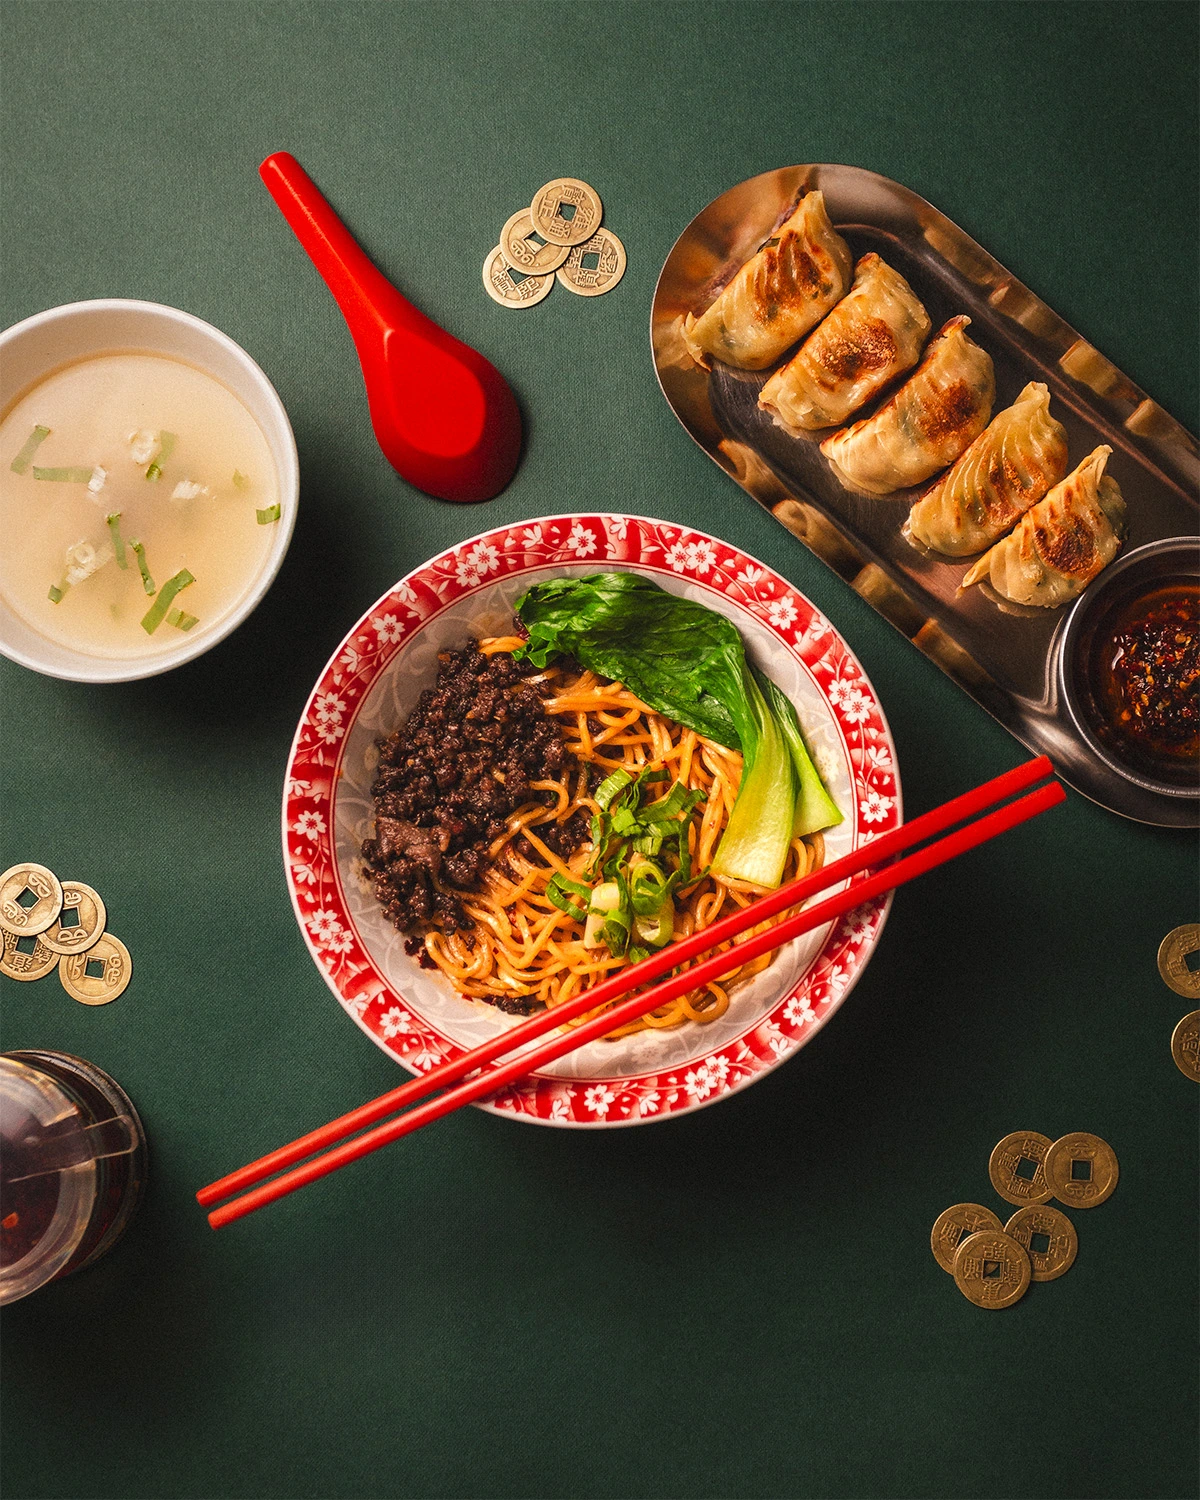
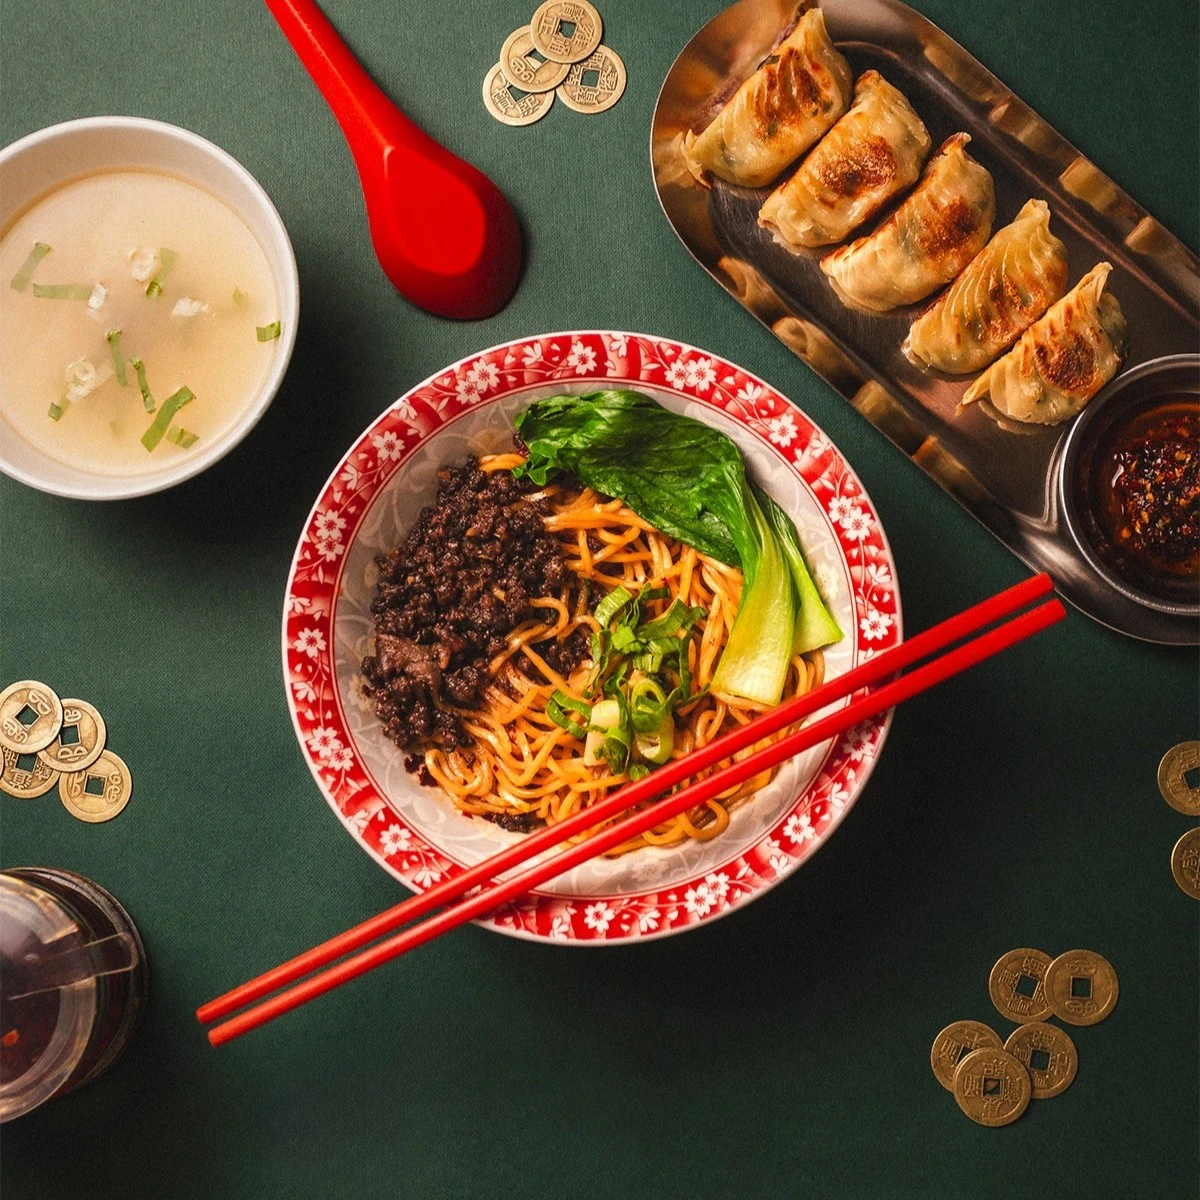
v5.2

diff --git a/portfolio/tsukamie.html b/portfolio/tsukamie.html
@@ -481,7 +481,6 @@
             <a href="#outputs" class="cs-nav-item"><span class="cs-nav-label">Outputs</span><div class="cs-nav-dot"></div></a>
             <a href="#impact" class="cs-nav-item"><span class="cs-nav-label">The Impact</span><div class="cs-nav-dot"></div></a>
             <a href="#process" class="cs-nav-item"><span class="cs-nav-label">Process</span><div class="cs-nav-dot"></div></a>
-            <a href="#testimonial" class="cs-nav-item"><span class="cs-nav-label">Testimonial</span><div class="cs-nav-dot"></div></a>
             <a href="#key-takeaways" class="cs-nav-item"><span class="cs-nav-label">Takeaways</span><div class="cs-nav-dot"></div></a>
             <a href="#credits" class="cs-nav-item"><span class="cs-nav-label">Credits</span><div class="cs-nav-dot"></div></a>
         </nav>
@@ -745,8 +744,8 @@
                             <div class="solution-video-item is-fullwidth">
                                 <div class="solution-video-content">
                                     <span class="sol-number">[02]</span>
-                                    <h3 class="sol-title">Content Pillar System</h3>
-                                    <p class="sol-desc">Defined clear content categories to maintain consistency in messaging, balancing brand communication, engagement content, and informational posts.</p>
+                                    <h3 class="sol-title">Content System Development</h3>
+                                    <p class="sol-desc">Built a structured workflow through audience research, moodboarding, production planning, and performance evaluation to create more consistent and effective content.</p>
                                 </div>
                                 <div class="solution-video-player" style="box-shadow: none; border-radius: 0; background: transparent;">
                                     <div class="bits-and-pieces-wrapper">
@@ -901,7 +900,7 @@
                                                         <button class="bento-btn bento-fullscreen-btn">
                                                             <svg width="12" height="12" viewBox="0 0 24 24" fill="none" stroke="currentColor" stroke-width="2" stroke-linecap="round" stroke-linejoin="round"><path d="M8 3H5a2 2 0 0 0-2 2v3m18 0V5a2 2 0 0 0-2-2h-3m0 18h3a2 2 0 0 0 2-2v-3M3 16v3a2 2 0 0 0 2 2h3"></path></svg> Fullscreen
                                                         </button>
-                                                        <a href="#" target="_blank" class="bento-btn">View on IG</a>
+                                                        <a href="https://www.instagram.com/p/DOKwiB0E4Mb/?utm_source=ig_web_copy_link&igsh=MzRlODBiNWFlZA==" target="_blank" class="bento-btn">View on IG</a>
                                                     </div>
                                                 </div>
                                             </div>
@@ -923,7 +922,7 @@
                                                         <button class="bento-btn bento-fullscreen-btn">
                                                             <svg width="12" height="12" viewBox="0 0 24 24" fill="none" stroke="currentColor" stroke-width="2" stroke-linecap="round" stroke-linejoin="round"><path d="M8 3H5a2 2 0 0 0-2 2v3m18 0V5a2 2 0 0 0-2-2h-3m0 18h3a2 2 0 0 0 2-2v-3M3 16v3a2 2 0 0 0 2 2h3"></path></svg> Fullscreen
                                                         </button>
-                                                        <a href="#" target="_blank" class="bento-btn">View on IG</a>
+                                                        <a href="https://www.instagram.com/p/DOdS6Kkk1Vt/?utm_source=ig_web_copy_link&igsh=MzRlODBiNWFlZA==" target="_blank" class="bento-btn">View on IG</a>
                                                     </div>
                                                 </div>
                                             </div>
@@ -945,7 +944,7 @@
                                                         <button class="bento-btn bento-fullscreen-btn">
                                                             <svg width="12" height="12" viewBox="0 0 24 24" fill="none" stroke="currentColor" stroke-width="2" stroke-linecap="round" stroke-linejoin="round"><path d="M8 3H5a2 2 0 0 0-2 2v3m18 0V5a2 2 0 0 0-2-2h-3m0 18h3a2 2 0 0 0 2-2v-3M3 16v3a2 2 0 0 0 2 2h3"></path></svg> Fullscreen
                                                         </button>
-                                                        <a href="#" target="_blank" class="bento-btn">View on IG</a>
+                                                        <a href="https://www.instagram.com/p/DOScNpWE3HB/?utm_source=ig_web_copy_link&igsh=MzRlODBiNWFlZA==" target="_blank" class="bento-btn">View on IG</a>
                                                     </div>
                                                 </div>
                                             </div>
@@ -966,7 +965,7 @@
                                                         <button class="bento-btn bento-fullscreen-btn">
                                                             <svg width="12" height="12" viewBox="0 0 24 24" fill="none" stroke="currentColor" stroke-width="2" stroke-linecap="round" stroke-linejoin="round"><path d="M8 3H5a2 2 0 0 0-2 2v3m18 0V5a2 2 0 0 0-2-2h-3m0 18h3a2 2 0 0 0 2-2v-3M3 16v3a2 2 0 0 0 2 2h3"></path></svg> Fullscreen
                                                         </button>
-                                                        <a href="#" target="_blank" class="bento-btn">View on IG</a>
+                                                        <a href="https://www.instagram.com/p/DMep4KmPpOj/?utm_source=ig_web_copy_link&igsh=MzRlODBiNWFlZA==" target="_blank" class="bento-btn">View on IG</a>
                                                     </div>
                                                 </div>
                                             </div>
@@ -988,7 +987,7 @@
                                                         <button class="bento-btn bento-fullscreen-btn">
                                                             <svg width="12" height="12" viewBox="0 0 24 24" fill="none" stroke="currentColor" stroke-width="2" stroke-linecap="round" stroke-linejoin="round"><path d="M8 3H5a2 2 0 0 0-2 2v3m18 0V5a2 2 0 0 0-2-2h-3m0 18h3a2 2 0 0 0 2-2v-3M3 16v3a2 2 0 0 0 2 2h3"></path></svg> Fullscreen
                                                         </button>
-                                                        <a href="#" target="_blank" class="bento-btn">View on IG</a>
+                                                        <a href="https://www.instagram.com/p/DPSzvgkj6c3/?utm_source=ig_web_copy_link&igsh=MzRlODBiNWFlZA==" target="_blank" class="bento-btn">View on IG</a>
                                                     </div>
                                                 </div>
                                             </div>
@@ -1008,7 +1007,7 @@
                                                         <button class="bento-btn bento-play-btn">
                                                             <svg width="12" height="12" viewBox="0 0 24 24" fill="currentColor"><path d="M8 5v14l11-7z"/></svg> Play
                                                         </button>
-                                                        <a href="#" target="_blank" class="bento-btn">View on IG</a>
+                                                        <a href="https://www.instagram.com/reel/DNSnvRev8xh/?utm_source=ig_web_copy_link&igsh=MzRlODBiNWFlZA==" target="_blank" class="bento-btn">View on IG</a>
                                                         <button class="bento-btn bento-stats-toggle">
                                                             Stats
                                                             <svg width="12" height="12" viewBox="0 0 24 24" fill="none" stroke="currentColor" stroke-width="2" stroke-linecap="round" stroke-linejoin="round"><path d="M6 9l6 6 6-6"/></svg>
@@ -1032,7 +1031,7 @@
                                                         <button class="bento-btn bento-play-btn">
                                                             <svg width="12" height="12" viewBox="0 0 24 24" fill="currentColor"><path d="M8 5v14l11-7z"/></svg> Play
                                                         </button>
-                                                        <a href="#" target="_blank" class="bento-btn">View on IG</a>
+                                                        <a href="https://www.instagram.com/reel/DNABJDazVYp/?utm_source=ig_web_copy_link&igsh=MzRlODBiNWFlZA==" target="_blank" class="bento-btn">View on IG</a>
                                                         <button class="bento-btn bento-stats-toggle">
                                                             Stats
                                                             <svg width="12" height="12" viewBox="0 0 24 24" fill="none" stroke="currentColor" stroke-width="2" stroke-linecap="round" stroke-linejoin="round"><path d="M6 9l6 6 6-6"/></svg>
@@ -1056,7 +1055,7 @@
                                                         <button class="bento-btn bento-play-btn">
                                                             <svg width="12" height="12" viewBox="0 0 24 24" fill="currentColor"><path d="M8 5v14l11-7z"/></svg> Play
                                                         </button>
-                                                        <a href="#" target="_blank" class="bento-btn">View on IG</a>
+                                                        <a href="https://www.instagram.com/reel/DMZtV9evz3b/?utm_source=ig_web_copy_link&igsh=MzRlODBiNWFlZA==" target="_blank" class="bento-btn">View on IG</a>
                                                         <button class="bento-btn bento-stats-toggle">
                                                             Stats
                                                             <svg width="12" height="12" viewBox="0 0 24 24" fill="none" stroke="currentColor" stroke-width="2" stroke-linecap="round" stroke-linejoin="round"><path d="M6 9l6 6 6-6"/></svg>
@@ -1080,7 +1079,7 @@
                                                         <button class="bento-btn bento-play-btn">
                                                             <svg width="12" height="12" viewBox="0 0 24 24" fill="currentColor"><path d="M8 5v14l11-7z"/></svg> Play
                                                         </button>
-                                                        <a href="#" target="_blank" class="bento-btn">View on IG</a>
+                                                        <a href="https://www.instagram.com/reel/DMuvjpmvn0Z/?utm_source=ig_web_copy_link&igsh=MzRlODBiNWFlZA==" target="_blank" class="bento-btn">View on IG</a>
                                                         <button class="bento-btn bento-stats-toggle">
                                                             Stats
                                                             <svg width="12" height="12" viewBox="0 0 24 24" fill="none" stroke="currentColor" stroke-width="2" stroke-linecap="round" stroke-linejoin="round"><path d="M6 9l6 6 6-6"/></svg>
@@ -1104,7 +1103,7 @@
                                                         <button class="bento-btn bento-play-btn">
                                                             <svg width="12" height="12" viewBox="0 0 24 24" fill="currentColor"><path d="M8 5v14l11-7z"/></svg> Play
                                                         </button>
-                                                        <a href="#" target="_blank" class="bento-btn">View on IG</a>
+                                                        <a href="https://www.instagram.com/reel/DNVQwa_TOav/?utm_source=ig_web_copy_link&igsh=MzRlODBiNWFlZA==" target="_blank" class="bento-btn">View on IG</a>
                                                         <button class="bento-btn bento-stats-toggle">
                                                             Stats
                                                             <svg width="12" height="12" viewBox="0 0 24 24" fill="none" stroke="currentColor" stroke-width="2" stroke-linecap="round" stroke-linejoin="round"><path d="M6 9l6 6 6-6"/></svg>
@@ -1186,86 +1185,34 @@
                     <div class="global-padding">
                         <div class="section-headlne-content-wrapper section-headline-margin" style="display: flex; flex-direction: column; align-items: flex-start; text-align: left;">
                             <div class="section-headline">
-                                <h2 class="section-headline-text text-3xl text-weight-semibold text-color-black-900 text-reveal">Process & System</h2>
+                                <h2 class="section-headline-text text-3xl text-weight-semibold text-color-black-900 text-reveal">Behind The Scenes</h2>
                             </div>
-                            <p class="about-paragraph" style="margin-top: 16px; max-width: 65ch;">The project involved content research, audience observation, visual moodboarding, production planning, editing workflows, and performance evaluation to continuously improve content effectiveness over time.</p>
                         </div>
                     </div>
                 </div>
                 <div class="bits-and-pieces-wrapper">
                     <div class="slider-wrapper">
-                        <div class="swiper bits-slider">
+                        <div class="swiper bits-slider" data-loop="false">
                             <div class="swiper-wrapper">
                                 <div class="swiper-slide">
                                     <div class="photo-card">
-                                        <img src="https://images.unsplash.com/photo-1551288049-bebda4e38f71?q=80&w=600&auto=format&fit=crop" alt="G-Sheets Customer Analysis" class="photo-img" loading="lazy" decoding="async" fetchpriority="low">
+                                        <img src="../assets/images/project/tsukamie/bts-1.webp" alt="Behind The Scenes 1" class="photo-img" loading="lazy" decoding="async" fetchpriority="low">
                                     </div>
                                 </div>
                                 <div class="swiper-slide">
                                     <div class="photo-card">
-                                        <img src="https://images.unsplash.com/photo-1600565193348-f74bd3c7ccdf?q=80&w=600&auto=format&fit=crop" alt="Food Photography Setup" class="photo-img" loading="lazy" decoding="async" fetchpriority="low">
+                                        <img src="../assets/images/project/tsukamie/bts-2.webp" alt="Behind The Scenes 2" class="photo-img" loading="lazy" decoding="async" fetchpriority="low">
                                     </div>
                                 </div>
                                 <div class="swiper-slide">
                                     <div class="photo-card">
-                                        <video class="photo-img" autoplay loop muted playsinline preload="none">
-                                            <source src="https://assets.mixkit.co/videos/preview/mixkit-eating-a-bowl-of-noodles-with-chopsticks-42775-large.mp4" type="video/mp4">
-                                        </video>
-                                    </div>
-                                </div>
-                                <div class="swiper-slide">
-                                    <div class="photo-card">
-                                        <img src="https://images.unsplash.com/photo-1569718212165-3a8278d5f624?q=80&w=600&auto=format&fit=crop" alt="Final Grid Output" class="photo-img" loading="lazy" decoding="async" fetchpriority="low">
-                                    </div>
-                                </div>
-                                
-                                <!-- Next 4 slides for a full 8-item showcase -->
-                                <div class="swiper-slide">
-                                    <div class="photo-card">
-                                        <img src="https://images.unsplash.com/photo-1507925922837-1c26414a14fa?q=80&w=600&auto=format&fit=crop" alt="Production Moodboard" class="photo-img" loading="lazy" decoding="async" fetchpriority="low">
-                                    </div>
-                                </div>
-                                <div class="swiper-slide">
-                                    <div class="photo-card">
-                                        <img src="https://images.unsplash.com/photo-1553621042-f6e147245754?q=80&w=600&auto=format&fit=crop" alt="Styling Details" class="photo-img" loading="lazy" decoding="async" fetchpriority="low">
-                                    </div>
-                                </div>
-                                <div class="swiper-slide">
-                                    <div class="photo-card">
-                                        <img src="https://images.unsplash.com/photo-1614563637806-1d0e645e0940?q=80&w=600&auto=format&fit=crop" alt="Editing Workflow" class="photo-img" loading="lazy" decoding="async" fetchpriority="low">
-                                    </div>
-                                </div>
-                                <div class="swiper-slide">
-                                    <div class="photo-card">
-                                        <img src="https://images.unsplash.com/photo-1582878826629-29b7ad1cb431?q=80&w=600&auto=format&fit=crop" alt="Review and Approval" class="photo-img" loading="lazy" decoding="async" fetchpriority="low">
+                                        <img src="../assets/images/project/tsukamie/bts-3.webp" alt="Behind The Scenes 3" class="photo-img" loading="lazy" decoding="async" fetchpriority="low">
                                     </div>
                                 </div>
                             </div>
                             <div class="swiper-pagination"></div>
                             <div class="swiper-button-next"></div>
                             <div class="swiper-button-prev"></div>
-                        </div>
-                    </div>
-                </div>
-            </section>
-
-            <section id="testimonial" class="section-margin fade-in-section">
-                <div class="w-layout-blockcontainer global-wrapper w-container">
-                    <div class="global-padding">
-                        <div style="max-width: 900px; margin: 0 auto; text-align: center; padding: 40px 0;">
-                            <svg width="48" height="48" viewBox="0 0 24 24" fill="none" xmlns="http://www.w3.org/2000/svg" style="margin-bottom: 32px; color: rgba(0,0,0,0.1);">
-                                <path d="M9 11V16C9 17.6569 7.65685 19 6 19C4.34315 19 3 17.6569 3 16C3 14.3431 4.34315 13 6 13C6.46328 13 6.90117 13.1053 7.29177 13.2926C7.42084 12.637 7.5 11.854 7.5 11V8L9 8V11ZM19 11V16C19 17.6569 17.6569 19 16 19C14.3431 19 13 17.6569 13 16C13 14.3431 14.3431 13 16 13C16.4633 13 16.9012 13.1053 17.2918 13.2926C17.4208 12.637 17.5 11.854 17.5 11V8L19 8V11Z" fill="currentColor"/>
-                            </svg>
-                            
-                            <h3 style="font-family: var(--font-primary); font-size: clamp(1.5rem, 3.5vw, 2.5rem); font-weight: 500; line-height: 1.4; letter-spacing: -0.02em; color: #111; margin-bottom: 40px;">
-                                "Dimas didn't just take photos; he completely redefined how Tsukamie feels online. His content strategy directly translated our authentic recipes into viral social media moments, bringing new customers to our door daily."
-                            </h3>
-                            
-                            <div style="display: flex; flex-direction: column; align-items: center; justify-content: center; gap: 8px;">
-                                <img src="https://images.unsplash.com/photo-1507003211169-0a1dd7228f2d?q=80&w=200&auto=format&fit=crop" alt="Client Avatar" style="width: 64px; height: 64px; border-radius: 50%; object-fit: cover; margin-bottom: 8px; box-shadow: 0 10px 20px -5px rgba(0,0,0,0.15); border: 1px solid rgba(0,0,0,0.05);">
-                                <span style="font-family: var(--font-primary); font-weight: 700; font-size: 1.1rem; color: #111;">Tsukamie Management</span>
-                                <span style="font-family: var(--font-primary); font-size: 0.8rem; font-weight: 600; text-transform: uppercase; letter-spacing: 0.15em; color: #888;">Founder, Tsukamie Noodle Bar</span>
-                            </div>
                         </div>
                     </div>
                 </div>

diff --git a/script.js b/script.js
@@ -944,7 +944,7 @@ function initBitsSlider() {
     if (!slider || typeof Swiper === 'undefined') return;
 
     const swiper = new Swiper('.bits-slider', {
-        loop: true,
+        loop: slider.getAttribute('data-loop') !== 'false',
         slidesPerView: "auto", // Allows CSS width to control how many show
         centeredSlides: true,
         spaceBetween: 20,